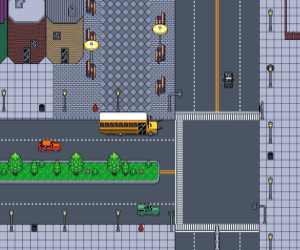
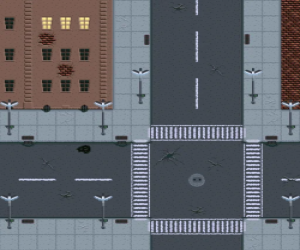
Rework background in game. Rework pre-game menu

diff --git a/Project/Project/ingame.cpp b/Project/Project/ingame.cpp
@@ -8,17 +8,27 @@ struct TRASH {
     bool grabbed = true;
 };
 
-short inGame(short map, const short trash)
+short inGame(float charSpeed, int gameTimeHolder, short map, const short trash)
 {
     //const short trash = 10;
     TRASH objects[20];
-
+    
+    short trashCounter = 0;
     int trashPicked = 0;
     int frameTime = 0;
     int randPosX = 0;
     int randPosY = 0;
-    Texture2D mapDisplay = LoadTexture("../assets/game_bg.png");
-    Texture2D character = LoadTexture("../assets/sprite_temp.png");
+    int gameTime = gameTimeHolder * GetFrameTime(); // Game time in seconds, multiplied by the frametime to convert to frames
+    int highScore = 0;
+    bool gameOver = false;
+    Texture2D map1 = LoadTexture("../assets/map_1.png");
+    Texture2D map2 = LoadTexture("../assets/map_2.png");
+
+    Texture2D charFront = LoadTexture("../assets/charFront.png");
+    Texture2D charBack = LoadTexture("../assets/charBack.png");
+    Texture2D charLeft = LoadTexture("../assets/charLeft.png");
+    Texture2D charRight = LoadTexture("../assets/charRight.png");
+
     Texture2D trashSprite = LoadTexture("../assets/trash.png");
     Texture2D dumpsterSprite = LoadTexture("../assets/dumpster.png");
     Font font = LoadFontEx("../assets/PixAntiqua.ttf", 32, 0, 250);
@@ -27,12 +37,13 @@ short inGame(short map, const short trash)
     SetTargetFPS(60);
     while (!WindowShouldClose())
     {
+        if (!gameOver) gameTime--;
         frameTime++;
-        Color bgColor = { 0, 51, 102 };
+        //Color bgColor = { 0, 51, 102 };
         BeginDrawing();
-        ClearBackground(bgColor);
-        DrawTexturePro(mapDisplay, { 0.0f, 0.0f, (float)mapDisplay.width, (float)mapDisplay.height }, { 0.0f, 0.0f, (float)GetScreenWidth(), (float)GetScreenHeight() }, { 0, 0 }, 0.0f, WHITE);
-
+        ClearBackground(BLACK);
+        if(map == 1) DrawTexturePro(map1, { 0.0f, 0.0f, (float)map1.width, (float)map1.height }, { 0.0f, 0.0f, (float)GetScreenWidth() - 350, (float)GetScreenHeight() }, { 0, 0 }, 0.0f, WHITE);
+        else if(map == 2) DrawTexturePro(map2, { 0.0f, 0.0f, (float)map2.width, (float)map2.height }, { 0.0f, 0.0f, (float)GetScreenWidth() - 350, (float)GetScreenHeight() }, { 0, 0 }, 0.0f, WHITE);
         for (int i = 0; i < trash; i++)
         {
             if (objects[i].grabbed == false)
@@ -41,30 +52,43 @@ short inGame(short map, const short trash)
             }
         }
         DrawTexture(dumpsterSprite, screenWidth / 2 - 64, screenHeight - 125, WHITE);
-        DrawTexture(character, static_cast<int>(spritePosition.x), static_cast<int>(spritePosition.y), WHITE);
-        DrawTextEx(font, TextFormat("Current randPos: %d, %d", randPosX, randPosY), { screenWidth / 2 - 200, 100 }, font.baseSize, 2.0f, WHITE);
-        DrawTextEx(font, TextFormat("Trash picked: %d", trashPicked), { screenWidth - 165, screenHeight - 20 }, font.baseSize, 2.0f, WHITE);
-
-        if (IsKeyDown(KEY_W) && spritePosition.y > 0) spritePosition.y -= 6.0f;
-        if (IsKeyDown(KEY_S) && spritePosition.y < screenHeight - 125 - character.height) spritePosition.y += 6.0f;
-        if (IsKeyDown(KEY_A) && spritePosition.x > 0) spritePosition.x -= 6.0f;
-        if (IsKeyDown(KEY_D) && spritePosition.x < screenWidth - character.width) spritePosition.x += 6.0f;
+        
+        //DrawTextEx(font, TextFormat("Current randPos: %d, %d", randPosX, randPosY), { screenWidth / 2 - 200, 100 }, font.baseSize, 2.0f, WHITE);
+        DrawTextEx(font, TextFormat("Trash picked: %d", trashPicked), { screenWidth - 265, screenHeight - 40 }, font.baseSize, 2.0f, WHITE);
+        DrawTextEx(font, TextFormat("Time remaining: %d", gameTime / 60), { 20, 20 }, 40, 2.0f, WHITE); // Display the remaining time
+        if (!gameOver)
+        {
+            if (IsKeyDown(KEY_W) && spritePosition.y > 0) { spritePosition.y -= charSpeed; DrawTexture(charBack, static_cast<int>(spritePosition.x), static_cast<int>(spritePosition.y), WHITE);
+            }
+            if (IsKeyDown(KEY_S) && spritePosition.y < screenHeight - 125 - charFront.height) { spritePosition.y += charSpeed; DrawTexture(charFront, static_cast<int>(spritePosition.x), static_cast<int>(spritePosition.y), WHITE);
+            }
+            if (IsKeyDown(KEY_A) && spritePosition.x > 0) { spritePosition.x -= charSpeed; DrawTexture(charLeft, static_cast<int>(spritePosition.x), static_cast<int>(spritePosition.y), WHITE);
+            }
+            if (IsKeyDown(KEY_D) && spritePosition.x < screenWidth - 325 - charRight.width) { spritePosition.x += charSpeed; DrawTexture(charRight, static_cast<int>(spritePosition.x), static_cast<int>(spritePosition.y), WHITE);
+            }
+            if (!(  IsKeyDown(KEY_W) || IsKeyDown(KEY_A) || IsKeyDown(KEY_S) || IsKeyDown(KEY_D)) ) { DrawTexture(charFront, static_cast<int>(spritePosition.x), static_cast<int>(spritePosition.y), WHITE); }
+        }
+        
 
         if (frameTime >= 60)
         {
-            randPosX = rand() % 1060 + 100;
+            randPosX = rand() % 850 + 100;
             randPosY = rand() % 600 + 100;
             frameTime = 0;
-            for (int i = 0; i < trash; i++)
+            if (!gameOver)
             {
-                if (objects[i].grabbed == true)
+                for (int i = 0; i < trash; i++)
                 {
-                    objects[i].grabbed = false;
-                    objects[i].posX = randPosX;
-                    objects[i].posY = randPosY;
-                    break;
+                    if (objects[i].grabbed == true)
+                    {
+                        objects[i].grabbed = false;
+                        objects[i].posX = randPosX;
+                        objects[i].posY = randPosY;
+                        break;
+                    }
                 }
             }
+            
         }
 
         for (int i = 0; i < trash; i++)
@@ -72,27 +96,53 @@ short inGame(short map, const short trash)
             if (objects[i].grabbed == false)
             {
                 // Check for collision with sprite
-                if (CheckCollisionRecs({ (float)spritePosition.x, (float)spritePosition.y, (float)character.width, (float)character.height }, { (float)objects[i].posX - 15, (float)objects[i].posY - 15, 30, 30 }))
+                if (CheckCollisionRecs({ (float)spritePosition.x, (float)spritePosition.y, (float)charFront.width, (float)charFront.height }, { (float)objects[i].posX - 15, (float)objects[i].posY - 15, 30, 30 }))
                 {
                     //DrawTextEx(font, "[SPACE] to pick up", { spritePosition.x + 20, spritePosition.y - 20 }, font.baseSize, 2.0f, WHITE);
-                    if (IsKeyPressed(KEY_SPACE))
+                    if (IsKeyPressed(KEY_SPACE) && trashCounter < 3)
                     {
+                        trashCounter++;
                         objects[i].grabbed = true;
                         trashPicked++;
+                        gameTime += 2 * 60; // Add 2 seconds to the game time
+                        if (trashPicked > highScore) {
+                            highScore = trashPicked; // Update the high score
+                        }
                     }
 
                 }
                 DrawTexture(trashSprite, objects[i].posX, objects[i].posY, WHITE);
             }
         }
+
+        if (gameTime <= 0) {
+            gameOver = true;
+            DrawTextEx(font, "GAME OVER", { screenWidth / 2 - MeasureText("GAME OVER", 50) / 2 + 15, screenHeight / 2 - 50 }, 50, 2.0f, RED);
+            DrawTextEx(font, TextFormat("High Score: %d", highScore), { screenWidth / 2 - MeasureText(TextFormat("High Score: %d", highScore), 30) / 2, screenHeight / 2 }, 30, 2.0f, RED);
+            DrawTextEx(font, "Press [ENTER] to start again", { screenWidth / 2 - MeasureText("Press [ENTER] to start again", 20) / 2 + 5, screenHeight / 2 + 100 }, 20, 2.0f, WHITE);
+            DrawTextEx(font, "Press [ESC] to return to menu", { screenWidth / 2 - MeasureText("Press [ESC] to return to menu", 20) / 2 + 5, screenHeight / 2 + 140 }, 20, 2.0f, WHITE);
+            if (IsKeyPressed(KEY_ENTER)) {
+                gameTime = gameTimeHolder * 60;
+                trashPicked = 0;
+                gameOver = false;
+                for (int i = 0; i < trash; i++) {
+                    objects[i].grabbed = true;
+                }
+            }
+        }
+
         EndDrawing();
     }
 
-    UnloadTexture(mapDisplay);
-    UnloadTexture(character);
+    UnloadTexture(map1);
+    UnloadTexture(map2);
+    UnloadTexture(charFront);
+    UnloadTexture(charBack);
+    UnloadTexture(charRight);
+    UnloadTexture(charLeft);
+
     UnloadTexture(trashSprite);
     UnloadTexture(dumpsterSprite);
     UnloadFont(font);
-    UnloadTexture(mapDisplay);
     return 0;
 }

diff --git a/Project/Project/game.cpp b/Project/Project/game.cpp
@@ -17,6 +17,7 @@ void main()
     Texture2D settings = LoadTexture("../assets/settings_menu.png");
     Texture2D settings_icon = LoadTexture("../assets/settings_icon.png");
     Texture2D mapSelect_1 = LoadTexture("../assets/mapSmall_1.png");
+    Texture2D mapSelect_2 = LoadTexture("../assets/mapSmall_2.png");
 
     //Texture2D settings_icon_pressed = LoadTexture("../assets/settings_icon_pressed.png");
     SetTargetFPS(60);
@@ -43,8 +44,9 @@ void main()
     bool closeGame = false;
     bool spaceBarShow = true;
     short numberOfObjects = 10;
-
+    float charSpeed = 6.0f;
     short currentMap = 1;
+    int gameTime = 30;
 
     while (true)
     {
@@ -131,6 +133,13 @@ void main()
 
                 if (CheckCollisionPointRec(GetMousePosition(), { mapSelectPosition.x - 100, mapSelectPosition.y + 80, 60, 60 }))
                 {
+                    if (IsMouseButtonPressed(MOUSE_LEFT_BUTTON))
+                    {
+                        if (currentMap == 1)
+                            currentMap = 2;
+                        else
+                            currentMap--;
+                    }
                     DrawTextEx(font, "<", { mapSelectPosition.x - 85, mapSelectPosition.y + 70 }, 100, 2.0f, GOLD);
 
                 }
@@ -138,12 +147,19 @@ void main()
 
                 if (CheckCollisionPointRec(GetMousePosition(), { mapSelectPosition.x + 340, mapSelectPosition.y + 80, 60, 60 }))
                 {
+                    if (IsMouseButtonPressed(MOUSE_LEFT_BUTTON))
+                    {
+                        if (currentMap == 2)
+                            currentMap = 1;
+                        else
+                            currentMap++;
+                    }
                     DrawTextEx(font, ">", { mapSelectPosition.x + 355, mapSelectPosition.y + 70 }, 100, 2.0f, GOLD);
                 }
                 else { DrawTextEx(font, ">", { mapSelectPosition.x + 355, mapSelectPosition.y + 70 }, 100, 2.0f, WHITE); }
 
-                DrawTexture(mapSelect_1, mapSelectPosition.x, mapSelectPosition.y, WHITE);
-
+                if(currentMap == 1) DrawTexture(mapSelect_1, mapSelectPosition.x, mapSelectPosition.y, WHITE);
+                else if (currentMap == 2) DrawTexture(mapSelect_2, mapSelectPosition.x, mapSelectPosition.y, WHITE);
 
                 if(numberOfObjects < 10) DrawTextEx(font, TextFormat(" Number of objects:     %d     ", numberOfObjects), { screenWidth / 2 - 195, 600 }, 30, 2.0f, WHITE);
                 else DrawTextEx(font, TextFormat(" Number of objects:     %d     ", numberOfObjects), { screenWidth / 2 - 200, 600 }, 30, 2.0f, WHITE);
@@ -171,6 +187,28 @@ void main()
                     DrawTextEx(font, "-", { screenWidth / 2 + 115, 595 }, 40, 2.0f, WHITE);
 
 
+                DrawTextEx(font, TextFormat("Character speed:     %.0f    ", charSpeed), { (float)screenWidth / 2 - 192, 640 }, 30, 2.0f, WHITE);
+                if (CheckCollisionPointRec(GetMousePosition(), { screenWidth / 2 + (float)157.5, 632.5, 30, 30 }))
+                {
+                    if (IsMouseButtonPressed(MOUSE_LEFT_BUTTON))
+                    {
+                        if (charSpeed < 50) charSpeed++;
+                    }
+                    DrawTextEx(font, ">", { screenWidth / 2 + (float)157.5, 632.5 }, 40, 2.0f, GREEN);
+                }
+                else
+                    DrawTextEx(font, ">", { screenWidth / 2 + (float)157.5, 632.5 }, 40, 2.0f, WHITE);
+                if (CheckCollisionPointRec(GetMousePosition(), { screenWidth / 2 + 90, 632.5, 30, 30 }))
+                {
+                    if (IsMouseButtonPressed(MOUSE_LEFT_BUTTON))
+                    {
+                        if (charSpeed > 1) charSpeed--;
+                    }
+                    DrawTextEx(font, "<", { screenWidth / 2 + 90, 632.5 }, 40, 2.0f, RED);
+                }
+                else
+                    DrawTextEx(font, "<", { screenWidth / 2 + 90, 632.5 }, 40, 2.0f, WHITE);
+
                 if (IsKeyPressed(KEY_ESCAPE)) currentScreen = 0;
 
             }
@@ -187,7 +225,7 @@ void main()
         }
         case 3:
         {
-            currentScreen = inGame(currentMap, numberOfObjects);
+            currentScreen = inGame(charSpeed, gameTime, currentMap, numberOfObjects);
         }
         }
         if (frameTime >= 60)
@@ -206,5 +244,6 @@ void main()
     UnloadTexture(settings_icon);
     UnloadFont(font);
     UnloadTexture(mapSelect_1);
+    UnloadTexture(mapSelect_2);
     CloseWindow();
 }

diff --git a/Project/Project/pre_game.cpp b/Project/Project/pre_game.cpp
@@ -8,10 +8,11 @@ short preGame()
 	{
 		BeginDrawing();
 		ClearBackground(BLACK);
-		DrawTextEx(font, "Press ENTER to start", { screenWidth / 2 - 150, screenHeight / 2 + 300 }, font.baseSize, 2.0f, WHITE);
-		DrawTextEx(font, "Press ESC to go back to menu", { screenWidth / 2 - 230, screenHeight / 2 + 340 }, font.baseSize, 2.0f, WHITE);
-		DrawTextEx(font, "Controls", { screenWidth / 2 - 480, screenHeight / 2 - 300 }, font.baseSize, 2.0f, WHITE);
-		DrawTexture(WASD, screenWidth / 2 - 525, screenHeight / 2 - 250, WHITE);
+		DrawTextEx(font, "Press ENTER to start", { screenWidth / 2 - MeasureText("Press ENTER to start", font.baseSize) / 2 + 15, screenHeight / 2 + 300 }, font.baseSize, 2.0f, WHITE);
+		DrawTextEx(font, "Press ESC to go back to menu", { screenWidth / 2 - MeasureText("Press ESC to go back to menu", font.baseSize) / 2 + 15, screenHeight / 2 + 340 }, font.baseSize, 2.0f, WHITE);
+		DrawTextEx(font, "Press Space to pick up", { screenWidth / 2 - MeasureText("Press Space to pick up", font.baseSize) / 2 + 10, screenHeight / 2 + 100 }, font.baseSize, 2.0f, WHITE); // Added this line
+		DrawTextEx(font, "Controls", { screenWidth / 2 - MeasureText("Controls", font.baseSize) / 2, screenHeight / 2 - 300 }, font.baseSize, 2.0f, WHITE);
+		DrawTexture(WASD, screenWidth / 2 - WASD.width / 2, screenHeight / 2 - WASD.height / 2, WHITE);
 		EndDrawing();
 	}
 	UnloadTexture(WASD);

diff --git a/Project/Project/Header.h b/Project/Project/Header.h
@@ -6,4 +6,4 @@ const float screenHeight = 850;
 
 void main();
 short preGame();
-short inGame(short map, const short trash);
+short inGame(float charSpeed, int gameTime, short map, const short trash);
